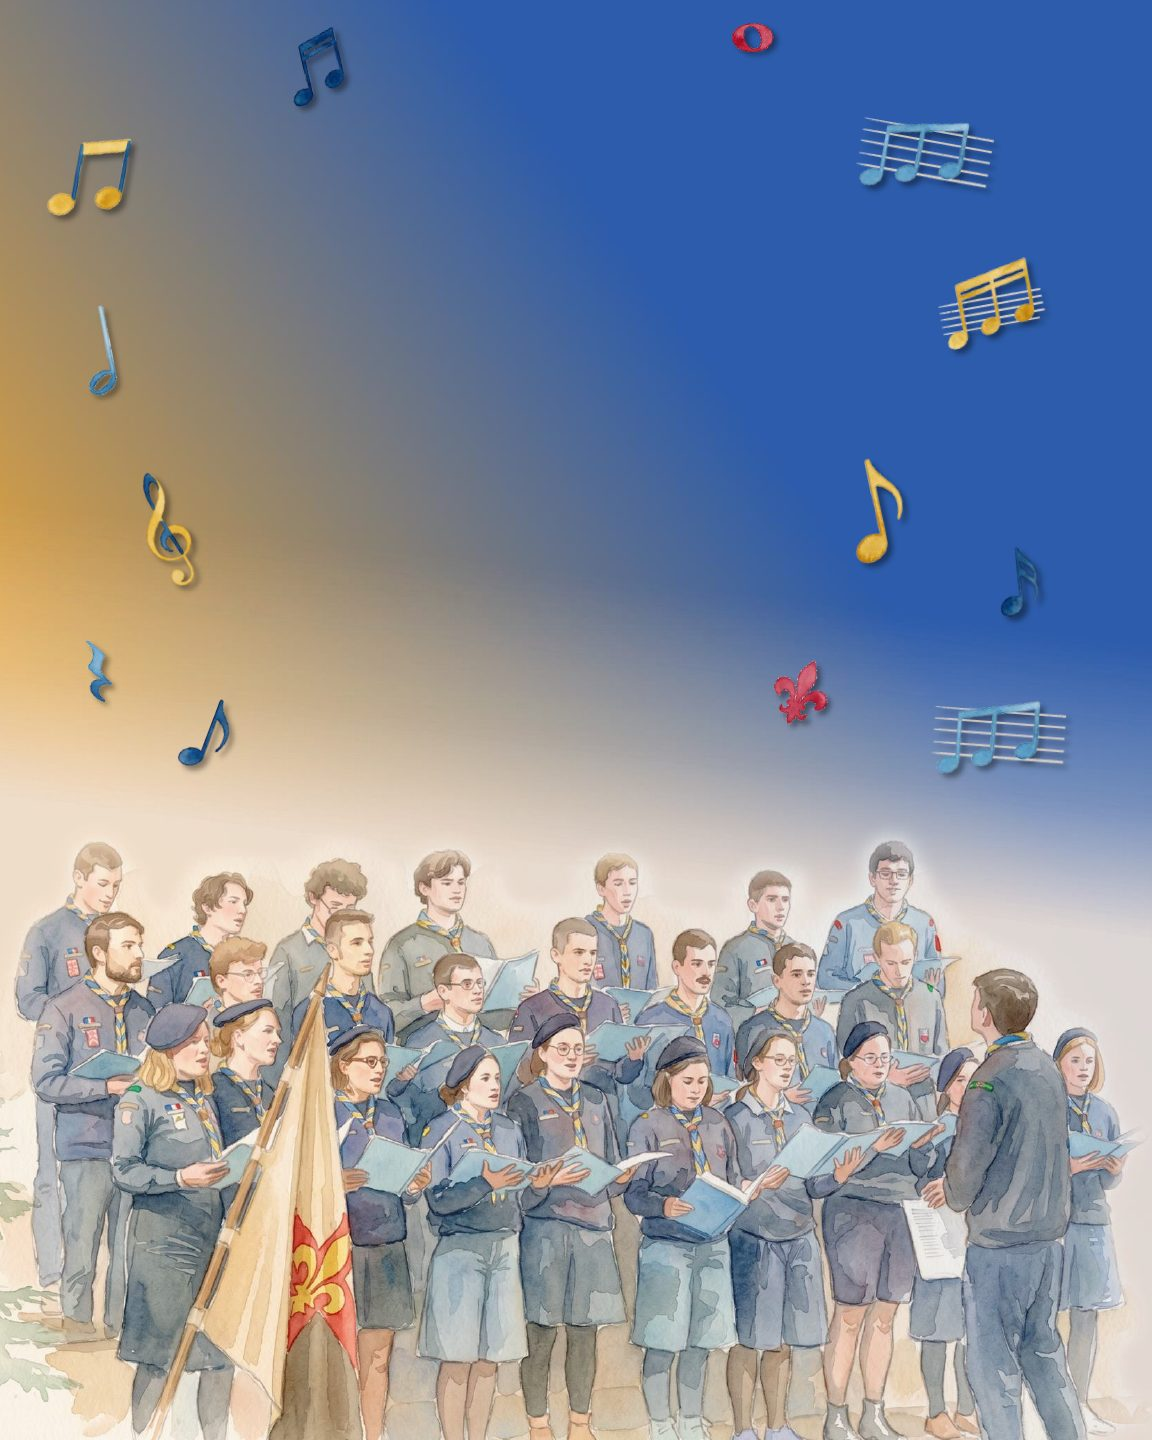
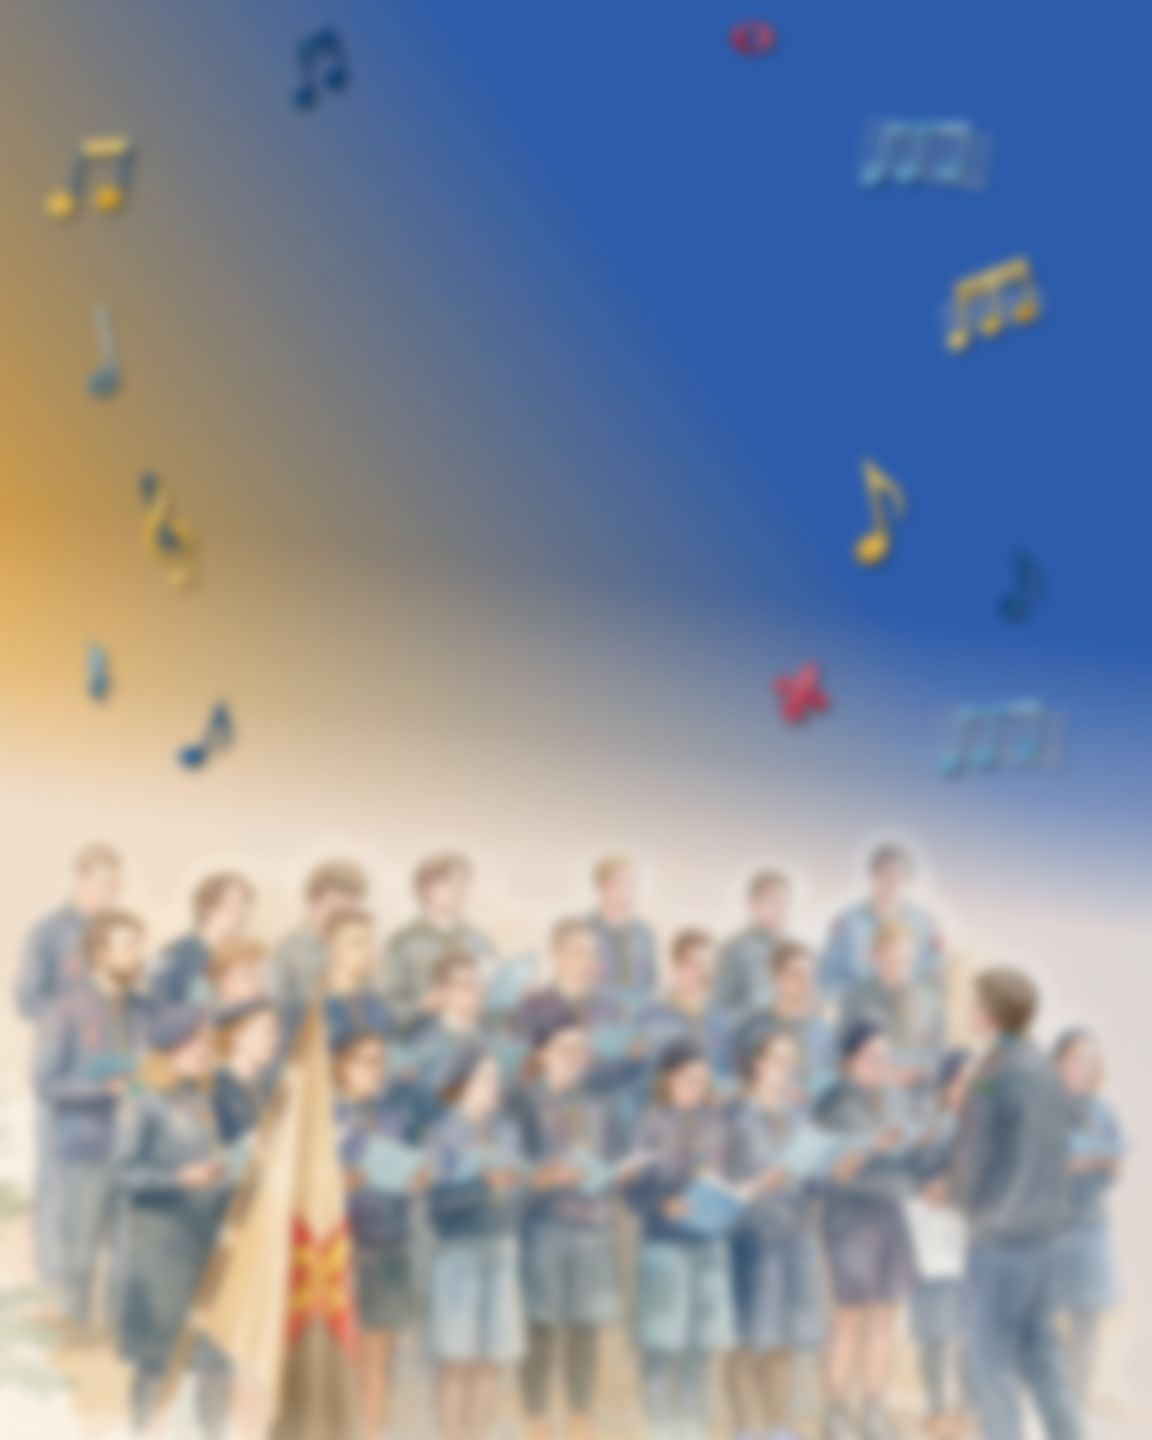
Titre en Edo SZ, fond flouté et contenu sur panneau flottant
- Police Edo SZ (Vic Fieger) convertie du .ttf du poste en .woff2 (17 Ko),
  réservée au titre : au pinceau, elle serait fatigante en petit corps.
  Couverture vérifiée, « œ » et accents compris ; fsType 8 autorise
  l'incorporation
- Fond flouté dans le fichier JPEG plutôt qu'en CSS : plus fluide à
  l'affichage, et le fichier passe de 181 à 67 Ko
- Contenu posé sur un panneau translucide qui floute l'arrière-plan,
  avec ombre portée ; le voile général est allégé en conséquence

Corrections de mise en page révélées par les tests :
- Le titre se coupait en quatre lignes sur mobile. Taille désormais
  fluide, césure désactivée, trait d'union insécable dans « Notre‑Dame »
- Les boutons LittleLink ont une largeur fixe de 300 px qui débordait
  de l'écran à 320 px et provoquait un défilement horizontal

diff --git a/css/custom.css b/css/custom.css
@@ -5,10 +5,42 @@
 */
 
 /* ------------------------------------------------------------------
+   Police du titre : Edo SZ (Vic Fieger, 2008)
+   Fichier converti du .ttf installé sur le poste vers .woff2 (17 Ko).
+   Réservée au titre : c'est une police au pinceau, très lisible en grand
+   mais fatigante en petit. Le reste de la page garde Open Sans.
+   ------------------------------------------------------------------ */
+
+@font-face {
+	font-family: "Edo SZ";
+	src: url("../fonts/edosz.woff2") format("woff2");
+	font-weight: 400;
+	font-style: normal;
+	font-display: swap;
+}
+
+h1 {
+	font-family: "Edo SZ", "Open Sans", sans-serif;
+	font-weight: 400;          /* la police n'a qu'une graisse : pas de faux gras */
+	letter-spacing: 0.01em;    /* annule le resserrement prévu pour Open Sans */
+	line-height: 1.15;
+
+	/* Taille fluide : sur un écran étroit, « CHŒUR NOTRE-DAME » se coupait
+	   en deux et le titre passait à quatre lignes. La taille s'adapte donc
+	   à la largeur, sans jamais dépasser celle prévue par LittleLink. */
+	font-size: clamp(1.35rem, 7vw, var(--scale-5));
+
+	/* Aucune césure automatique : les trois lignes sont voulues,
+	   elles ne doivent pas se subdiviser. */
+	hyphens: none;
+	overflow-wrap: normal;
+}
+
+/* ------------------------------------------------------------------
    Image de fond
-   L'aquarelle est ancrée en bas (le chœur reste visible) et fixe au
-   défilement. Un voile sombre est posé par-dessus : sans lui, le texte
-   blanc deviendrait illisible sur la partie dorée, en haut à gauche.
+   L'aquarelle est floutée en amont (dans le fichier JPEG, pas en CSS :
+   c'est plus fluide et le fichier est même plus léger). Elle est ancrée
+   en bas pour garder le chœur visible.
    ------------------------------------------------------------------ */
 
 body {
@@ -21,7 +53,8 @@ body {
 	min-height: 100vh;
 }
 
-/* Le voile est un calque à part, pour ne pas assombrir le texte lui-même. */
+/* Voile léger : le panneau assure désormais l'essentiel du contraste,
+   ce voile ne fait qu'unifier l'ensemble. */
 body::before {
 	content: "";
 	position: fixed;
@@ -29,10 +62,9 @@ body::before {
 	z-index: -1;
 	background: linear-gradient(
 		to bottom,
-		rgba(10, 20, 45, 0.72) 0%,
-		rgba(10, 20, 45, 0.60) 45%,
-		rgba(10, 20, 45, 0.30) 75%,
-		rgba(10, 20, 45, 0.15) 100%
+		rgba(10, 20, 45, 0.42) 0%,
+		rgba(10, 20, 45, 0.30) 50%,
+		rgba(10, 20, 45, 0.20) 100%
 	);
 }
 
@@ -42,25 +74,63 @@ body::before {
 	body {
 		background-attachment: scroll;
 	}
+	/* Rembourrage latéral resserré : chaque pixel gagné évite au titre
+	   de se couper au trait d'union. */
+	main {
+		padding-left: var(--spacing-s);
+		padding-right: var(--spacing-s);
+	}
 }
 
-/* Le titre et la phrase gagnent une ombre portée : elle garantit la
-   lisibilité même si l'image de fond est un jour remplacée. */
+/* ------------------------------------------------------------------
+   Panneau flottant
+   Le contenu est posé sur une plaque translucide qui floute ce qui passe
+   derrière elle, avec une ombre portée pour le décoller du fond.
+   Repli : sans backdrop-filter, la couleur de fond suffit à la lisibilité.
+   ------------------------------------------------------------------ */
+
+main {
+	position: relative;
+	margin: var(--spacing-xl) 0;
+	padding: var(--spacing-xl) var(--spacing-l) var(--spacing-m);
+	background: rgba(12, 22, 48, 0.46);
+	border: 1px solid rgba(255, 255, 255, 0.18);
+	border-radius: 1.5rem;
+	box-shadow: 0 1.25rem 2.5rem rgba(0, 0, 0, 0.45);
+	-webkit-backdrop-filter: blur(10px) saturate(115%);
+	backdrop-filter: blur(10px) saturate(115%);
+}
+
+/* Le texte garde une ombre : elle sécurise la lisibilité si l'image de
+   fond est un jour remplacée par une plus claire. */
 h1,
 .container p {
 	text-shadow: 0 0.125rem 0.5rem rgba(0, 0, 0, 0.55);
 }
 
-/* Halo discret derrière le logo, pour le détacher du fond. */
+/* Halo discret derrière le logo, pour le détacher du panneau. */
 .avatar {
 	box-shadow: 0 0.25rem 1.5rem rgba(0, 0, 0, 0.45);
 }
 
-/* Pied de page : le bleu par défaut des liens passait mal sur l'aquarelle.
-   On repasse en blanc souligné, avec la même ombre que le reste. */
+/* Les boutons flottent eux aussi légèrement au-dessus du panneau. */
+.button-stack .button {
+	box-shadow: 0 0.375rem 1rem rgba(0, 0, 0, 0.32);
+}
+
+/* Les boutons LittleLink ont une largeur fixe de 300 px, qui débordait
+   de l'écran sur les téléphones étroits (320 px) et provoquait un
+   défilement horizontal. Ils se contentent désormais de la place libre. */
+.button,
+button {
+	width: min(18.75rem, 100%);
+}
+
+/* Pied de page : hors du panneau, donc directement sur l'image.
+   Le bleu par défaut des liens y passait mal. */
 footer {
 	color: #ffffff;
-	text-shadow: 0 0.0625rem 0.375rem rgba(0, 0, 0, 0.8);
+	text-shadow: 0 0.0625rem 0.375rem rgba(0, 0, 0, 0.85);
 }
 
 :root.theme-dark footer a:not(.button),

diff --git a/index.html b/index.html
@@ -77,7 +77,7 @@
             <img class="avatar avatar--rounded" src="images/avatar.png" srcset="images/avatar@2x.png 2x" alt="Logo du Chœur Notre-Dame du Magnificat" width="128" height="128" fetchpriority="high">
 
             <!-- <<< À MODIFIER SI BESOIN >>> Nom ou nom de l'association -->
-            <h1>Chœur Notre-Dame<br>du<br>Magnificat</h1>
+            <h1>Chœur Notre‑Dame<br>du<br>Magnificat</h1>
 
             <!-- <<< À MODIFIER SI BESOIN >>> Courte phrase de présentation -->
             <p>Chœur des Guides et Scouts d'Europe de Paris</p>

diff --git a/README.md b/README.md
@@ -108,7 +108,8 @@ git add -A && git commit -m "Mise à jour des liens" && git push
 | `css/custom.css` | Fond, voile de lisibilité et couleurs propres au chœur |
 | `images/icons/` | Logos SVG des marques |
 | `LICENSE.md`, `VERSION.md` | Licence MIT et version de LittleLink (à conserver) |
-| `images/fond.jpg` | Image de fond (aquarelle du chœur) |
+| `images/fond.jpg` | Image de fond (aquarelle du chœur, déjà floutée) |
+| `fonts/edosz.woff2` | Police du titre, Edo SZ |
 | `images/logo-source.jpg` | Logo d'origine en haute définition (1600 px) |
 | `images/avatar-source.png` | Logo recadré avec marge, source des avatars |
 
